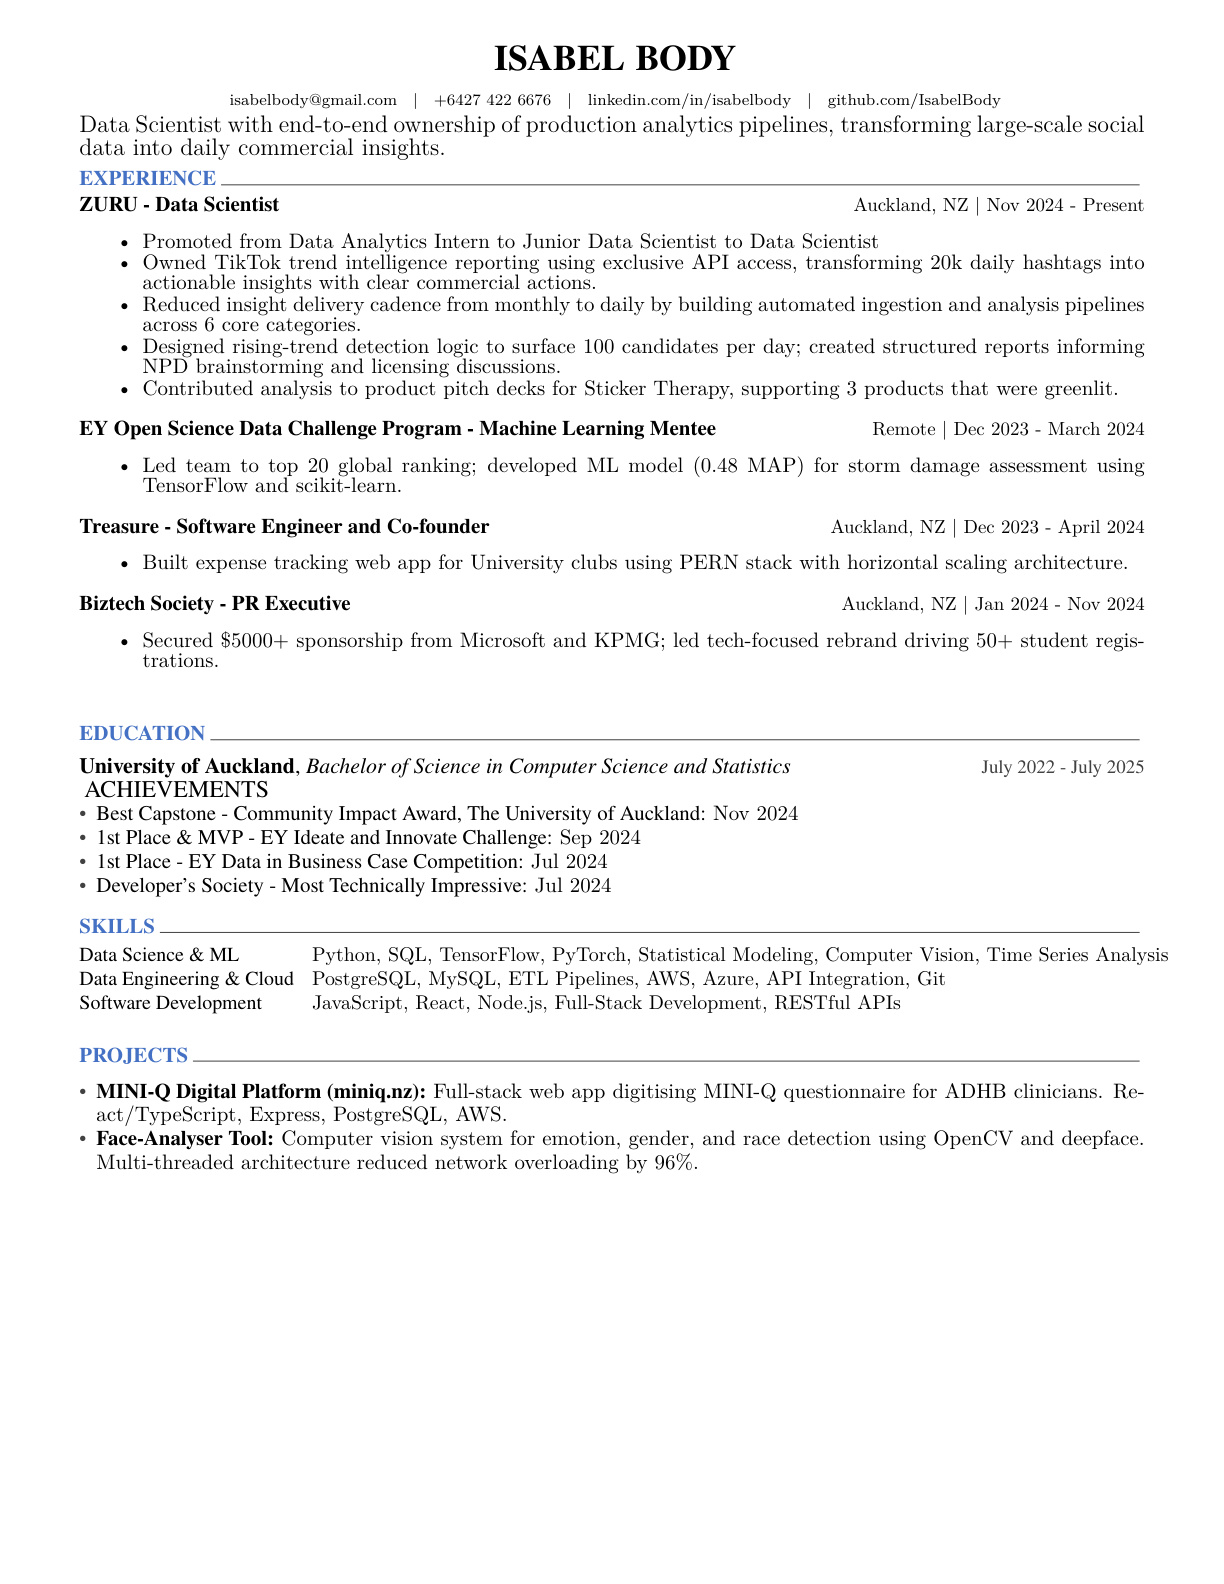
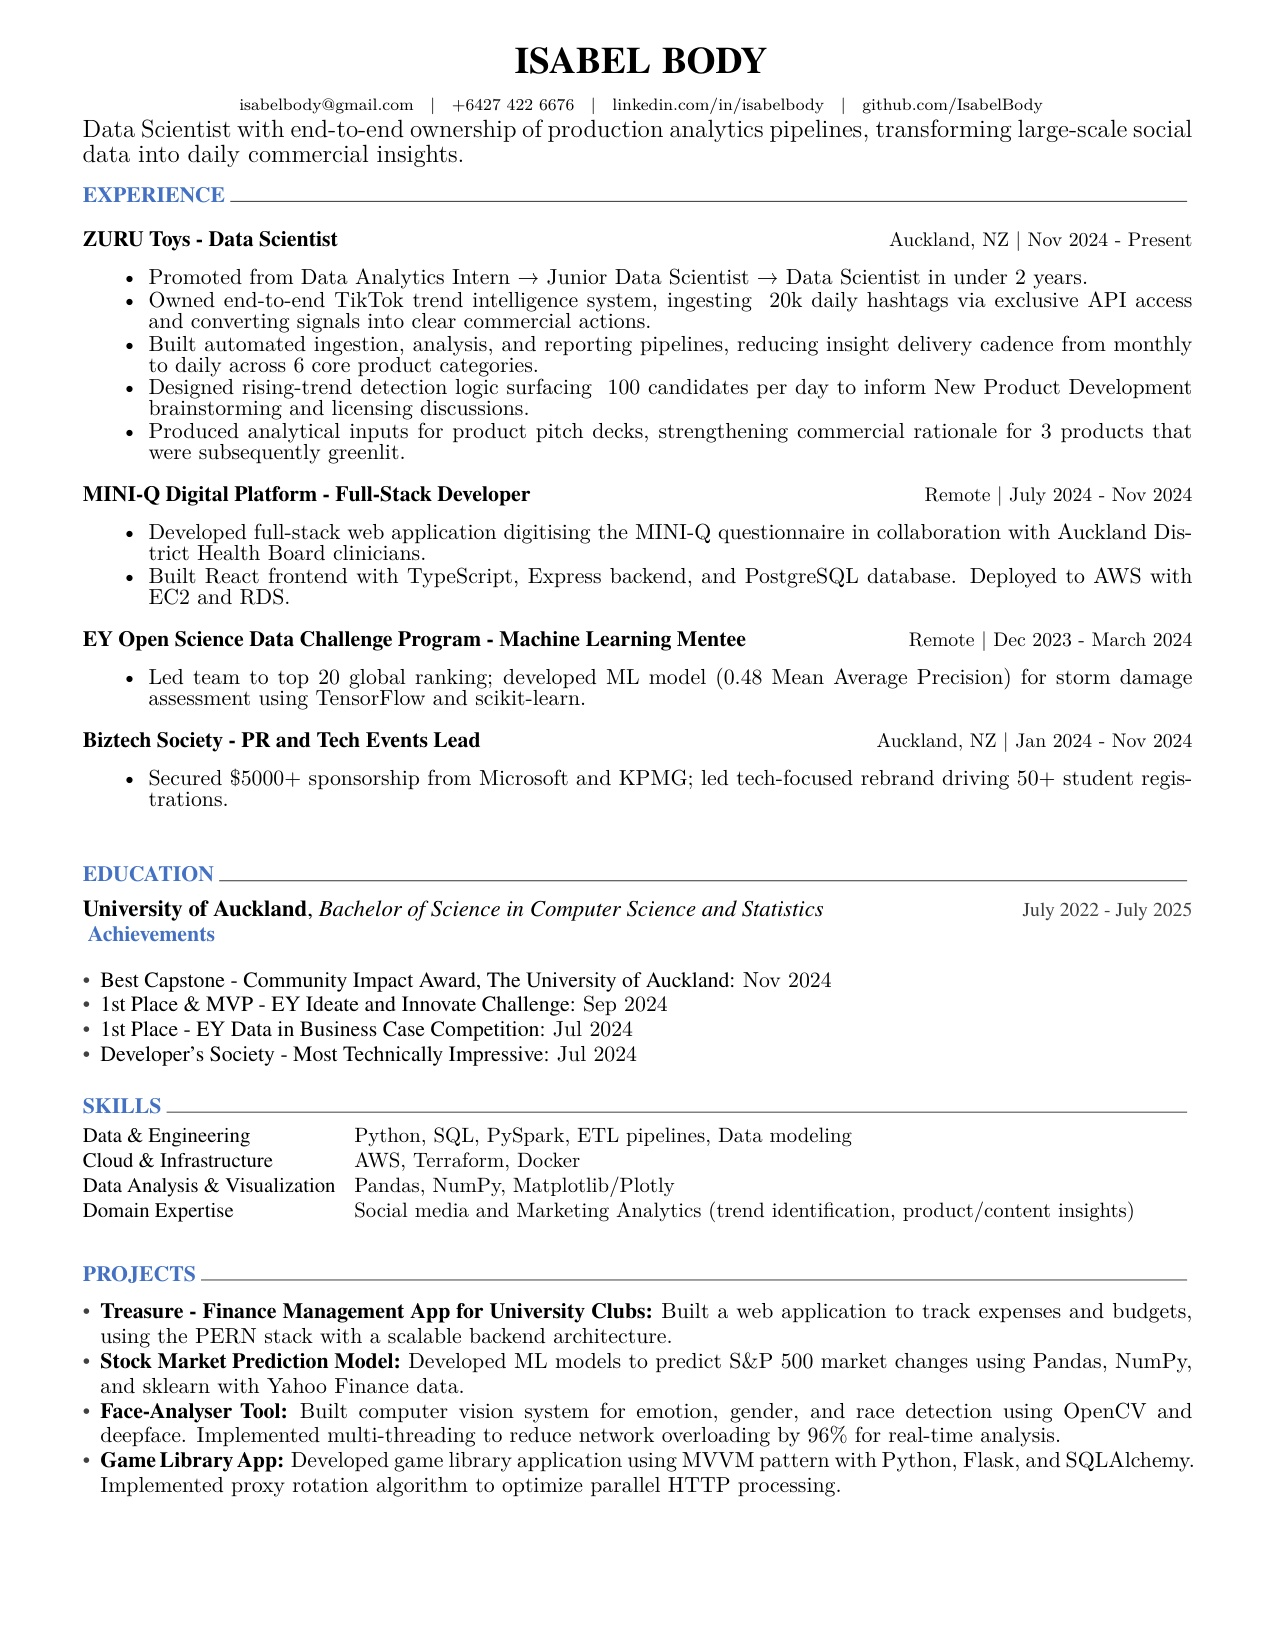
feat: added jpg compiling for preview

diff --git a/compile_resume.py b/compile_resume.py
@@ -7,6 +7,7 @@ Compiles resume.tex to PDF using XeLaTeX (required for this resume class).
 import subprocess
 import sys
 from pathlib import Path
+from datetime import datetime
 
 def check_latex_installed():
     """Check if XeLaTeX is installed."""
@@ -181,8 +182,17 @@ def compile_resume(force_clean=False):
             print(f"Output: {pdf_file}")
             # Show PDF modification time
             mtime = pdf_file.stat().st_mtime
-            from datetime import datetime
             print(f"PDF last modified: {datetime.fromtimestamp(mtime).strftime('%Y-%m-%d %H:%M:%S')}")
+            
+            # Convert PDF to JPG
+            jpg_file = Path(f'{output_name}.jpg')
+            print(f"\nGenerating JPG preview...")
+            if convert_pdf_to_jpg(pdf_file, jpg_file):
+                jpg_mtime = jpg_file.stat().st_mtime
+                print(f"JPG last modified: {datetime.fromtimestamp(jpg_mtime).strftime('%Y-%m-%d %H:%M:%S')}")
+            else:
+                print("[WARNING] JPG generation failed, but PDF compilation succeeded")
+            
             return True
         else:
             print("\n[ERROR] Compilation failed. PDF was not created or contains errors.")
@@ -202,6 +212,82 @@ def compile_resume(force_clean=False):
     except Exception as e:
         print(f"[ERROR] Error during compilation: {e}")
         return False
+
+def convert_pdf_to_jpg(pdf_path, jpg_path, dpi=150):
+    """Convert PDF to JPG image using available tools."""
+    pdf_path = Path(pdf_path)
+    jpg_path = Path(jpg_path)
+    
+    if not pdf_path.exists():
+        print(f"[ERROR] PDF file not found: {pdf_path}")
+        return False
+    
+    # Delete existing JPG if it exists to ensure clean overwrite
+    if jpg_path.exists():
+        try:
+            jpg_path.unlink()
+        except Exception as e:
+            print(f"[WARNING] Could not delete existing JPG: {e}")
+    
+    # Try pdf2image (requires poppler)
+    try:
+        from pdf2image import convert_from_path
+        print(f"Converting PDF to JPG using pdf2image...")
+        images = convert_from_path(pdf_path, dpi=dpi)
+        if images:
+            images[0].save(jpg_path, 'JPEG', quality=95)
+            print(f"[OK] JPG generated: {jpg_path}")
+            return True
+    except ImportError:
+        pass
+    except Exception as e:
+        print(f"[WARNING] pdf2image conversion failed: {e}")
+    
+    # Try PyMuPDF (fitz)
+    try:
+        import fitz  # PyMuPDF
+        print(f"Converting PDF to JPG using PyMuPDF...")
+        doc = fitz.open(pdf_path)
+        if len(doc) > 0:
+            page = doc[0]
+            # Render page to pixmap
+            zoom = dpi / 72.0  # Convert DPI to zoom factor
+            mat = fitz.Matrix(zoom, zoom)
+            pix = page.get_pixmap(matrix=mat)
+            # Convert to PIL Image and save as JPEG
+            from PIL import Image
+            img = Image.frombytes("RGB", [pix.width, pix.height], pix.samples)
+            img.save(jpg_path, 'JPEG', quality=95)
+            doc.close()
+            print(f"[OK] JPG generated: {jpg_path}")
+            return True
+    except ImportError:
+        pass
+    except Exception as e:
+        print(f"[WARNING] PyMuPDF conversion failed: {e}")
+    
+    # Try ImageMagick (external tool)
+    try:
+        print(f"Attempting to convert PDF to JPG using ImageMagick...")
+        result = subprocess.run(
+            ['magick', 'convert', '-density', str(dpi), str(pdf_path) + '[0]', '-quality', '95', str(jpg_path)],
+            capture_output=True,
+            text=True,
+            timeout=30
+        )
+        if result.returncode == 0 and jpg_path.exists():
+            print(f"[OK] JPG generated: {jpg_path}")
+            return True
+    except (FileNotFoundError, subprocess.TimeoutExpired):
+        pass
+    except Exception as e:
+        print(f"[WARNING] ImageMagick conversion failed: {e}")
+    
+    print("[ERROR] Could not convert PDF to JPG. Please install one of:")
+    print("  - pdf2image: pip install pdf2image (also requires poppler)")
+    print("  - PyMuPDF: pip install PyMuPDF")
+    print("  - ImageMagick: https://imagemagick.org/script/download.php")
+    return False
 
 def clean_aux_files():
     """Clean up auxiliary LaTeX files."""

diff --git a/cv/experience.tex b/cv/experience.tex
@@ -27,7 +27,8 @@
     {Remote | July 2024 - Nov 2024} % Date(s)
     {
       \begin{cvitems} % Description(s) of tasks/responsibilities
-        \item {Developed full-stack web application digitising the MINI-Q questionnaire in collaboration with Auckland District Health Board clinicians. Built React frontend with TypeScript, Express backend, and PostgreSQL database. Deployed to AWS with EC2 and RDS.}
+        \item {Developed full-stack web application digitising the MINI-Q questionnaire in collaboration with Auckland District Health Board clinicians.}
+        \item {Built React frontend with TypeScript, Express backend, and PostgreSQL database. Deployed to AWS with EC2 and RDS.}
       \end{cvitems}
     }
   \vspace{3mm}
